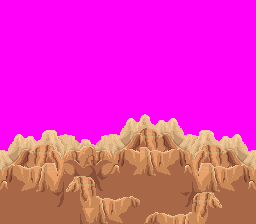
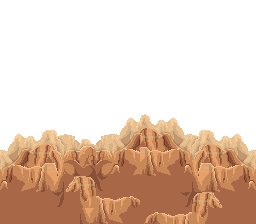
Practice, canvas layers, and background drawing

diff --git a/Scripts/script.js b/Scripts/script.js
@@ -19,6 +19,7 @@ let challenges = [];
 let myId = "";
 let myIndex = -1;
 let myRoom = "";
+const FPS = 1000 / 60;
 
 socket.on("sendId", function(id) {
     myId = id;
@@ -49,3 +50,111 @@ socket.on("sendChallengesList", function(challengesList) {
     console.log("CHALLENGES:");
     console.log(challenges);
 })
+
+function random(min, max) {
+    return Math.round(Math.random() * (max - min)) + min;;
+}
+
+let c;
+let w = 0;
+let h = 0;
+let r;
+let gameInterval;
+let bgImage;
+let fgImage;
+let bgSize = {x: -1, y: -1};
+
+function startPractice() {
+    drawBackground();
+
+    gameInterval = window.setInterval(practice, FPS);
+}
+
+function practice() {
+    r.clearRect(0, 0, w, h);
+}
+
+let bgExtras = [];
+
+let cactus1 = new Image();
+cactus1.src = "../Assets/Extras/Cactus1.png";
+bgExtras.push(cactus1)
+
+let cactus2 = new Image();
+cactus2.src = "../Assets/Extras/Cactus2.png";
+bgExtras.push(cactus2)
+
+let grass1 = new Image();
+grass1.src = "../Assets/Extras/Grass1.png";
+bgExtras.push(grass1)
+
+let grass2 = new Image();
+grass2.src = "../Assets/Extras/Grass2.png";
+bgExtras.push(grass2)
+
+let rock1 = new Image();
+rock1.src = "../Assets/Extras/Rock1.png";
+bgExtras.push(rock1)
+
+let rock2 = new Image();
+rock2.src = "../Assets/Extras/Rock2.png";
+bgExtras.push(rock2)
+
+function drawBackground() {
+    c = document.getElementById("iframe").contentWindow.document.getElementById("canvas");
+
+    let bgc = document.getElementById("iframe").contentWindow.document.getElementById("bgcanvas");
+    bgc.width = window.innerWidth - 40;
+    bgc.height = window.innerHeight - 70;
+    w = bgc.width;
+    h = bgc.height;
+
+    c.width = w;
+    c.height = h;
+    
+    r = bgc.getContext("2d");
+    // sky
+    r.fillStyle = "#7FB3D5";
+    r.fillRect(0, 0, w, h);
+
+    let originalGroundHeight = 150;
+    let groundHeight = originalGroundHeight;
+    
+    let red = 200;
+    let green = 174;
+    let blue = 125;
+
+    let segments = 3;
+    let increment = 7;
+
+    red += increment * segments;
+    green += increment * segments;
+    blue += increment * segments;
+
+    // draw ground with shading-ish
+    for(let i = 0; i < segments; i++) {
+        r.fillStyle = "rgb(" + red + ", " + green + ", " + blue +")";
+        r.fillRect(0, h - groundHeight, w, groundHeight);
+        
+        red -= increment;
+        green -= increment;
+        blue -= increment;
+        groundHeight -= groundHeight / segments;
+    }
+
+    // place extras
+    let extrasCount = random(4, 8);
+    console.log(extrasCount);
+    for(let i = 0; i < extrasCount; i++) {
+        let x = random(0, w);
+        let y = random(h - originalGroundHeight, h);
+
+        // r.drawImage(bgExtras[random(0, bgExtras.length)], x, y);
+        let image = bgExtras[random(0, bgExtras.length - 1)];
+        r.drawImage(image, x, y, image.width, image.height);
+        console.log(w, h, originalGroundHeight)
+        console.log(x, y);
+    }
+
+    r = c.getContext("2d");
+}

diff --git a/Scripts/pageHandler.js b/Scripts/pageHandler.js
@@ -12,6 +12,9 @@ function pageLoaded(src) {
     let srcSplitted = href.split("/");
     let page = srcSplitted[srcSplitted.length - 1].split(".")[0];
     
+    document.body.style.backgroundColor = "#C8AE7D";
+    iframeRef.document.body.style.backgroundColor = "#C8AE7D";
+
     switch(page) {
         case "home":
             break;
@@ -21,6 +24,13 @@ function pageLoaded(src) {
             break;
         case "challenges":
             showChallenges();
+
+            break;
+        case "practice":
+            document.body.style.backgroundColor = "black";
+            iframeRef.document.body.style.backgroundColor = "black";
+
+            startPractice();
 
             break;
         default:

diff --git a/Pages/credits.html b/Pages/credits.html
@@ -5,6 +5,7 @@
     <p>
         -Player: https://poly.pizza/m/S8hq7LEXTT<br>
         -Gun: https://mosleybrothersgames.itch.io/mbg-weapon-pack<br>
-        -Background: https://bazzy1985.itch.io/16x16-western-tileset-for-platformer
+        -Background: https://bazzy1985.itch.io/16x16-western-tileset-for-platformer<br>
+        -Tileset: https://wrlck.itch.io/simple-desert
     </p>
 </body>

diff --git a/Pages/home.html b/Pages/home.html
@@ -7,6 +7,7 @@
 
         <a class="menuButton" href="playerBrowser.html">Challenge a Player</a>
         <a class="menuButton" href="challenges.html">View Challenges Recieved</a>
+        <a class="menuButton" href="practice.html">Practice</a>
 
         <!-- <a class="menuButton" href="customization.html">Customization</a>
         <a class="menuButton" href="settings.html">Settings</a>

diff --git a/style.css b/style.css
@@ -33,6 +33,7 @@ h1 {
 }
 
 iframe {
+    margin: 0;
     border: none;
     width: 100%;
     height: 97vh;
@@ -128,4 +129,7 @@ button:hover {
     text-transform: uppercase;
     font-weight: bold;
     opacity: 0;
+}
+canvas {
+    position: absolute;
 }

diff --git a/Pages/practice.html b/Pages/practice.html
@@ -1,0 +1,7 @@
+<head>
+    <link rel="stylesheet" href="../style.css">
+</head>
+<body>
+    <canvas id="bgcanvas"></canvas>
+    <canvas id="canvas"></canvas>
+</body>
